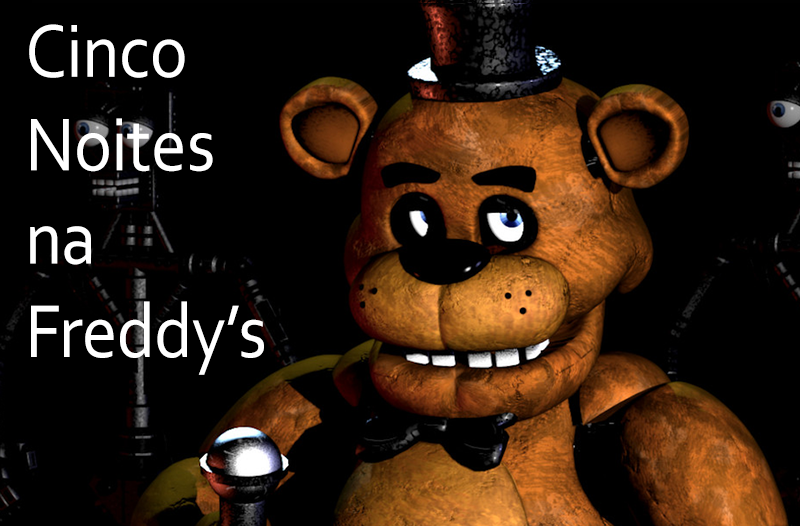
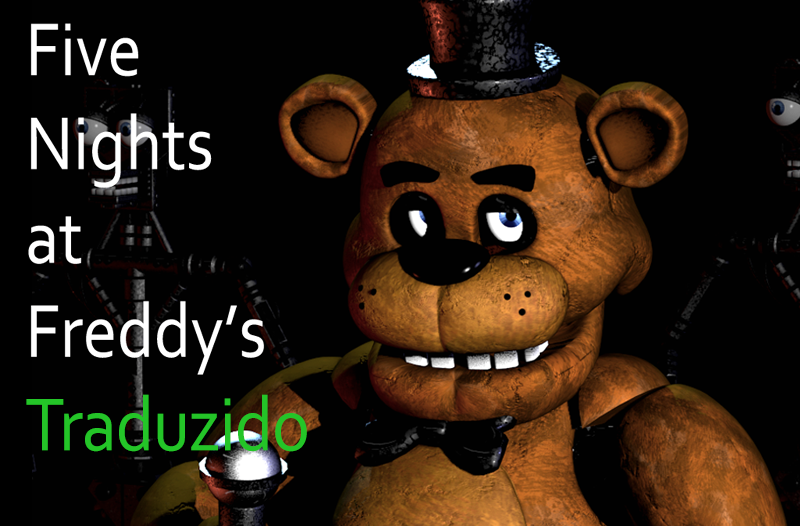
4.0.2

diff --git a/index.html b/index.html
@@ -23,13 +23,13 @@
 <hr>
 <!-- Resto da página -->
 
-<p><b>Última Tradução Lançada:</b><br><a href="projetos"><img class="otherTest" src="icon/FNAF1.png" height="18"> Cinco Noites na Freddy's</a></p>
+<p><b>Última Tradução Lançada:</b><br><a href="projetos"><img class="otherTest" src="icon/FNAF1.png" height="18"> Five Nights at Freddy's</a></p>
 <hr>
 <br>
 <!-- Teaser -->
 <img src="image/cinema.png">
 
-<p>Baixe a tradução completa de <img class="otherTest" src="icon/FNAF1.png" height="18"> Cinco Noites na Freddy's!</p>
+<p>Baixe a tradução completa de <img class="otherTest" src="icon/FNAF1.png" height="18"> Five Nights at Freddy's!</p>
 <p>
 <b>Versão 1.0</b><br>
 GameBanana ou 

diff --git a/projetos.html b/projetos.html
@@ -26,7 +26,7 @@
 <h1>Projetos atuais:</h1>
 <hr>
 <!----- FNAF1 ----->
-<h2> <img class="otherTest" src="icon/FNAF1.png" height="26"> Cinco Noites na Freddy's</h2>
+<h2> <img class="otherTest" src="icon/FNAF1.png" height="26"> Five Nights at Freddy's</h2>
 <p>
 <b>Versão 1.0 - 09/2025</b><br>
 GameBanana ou 
